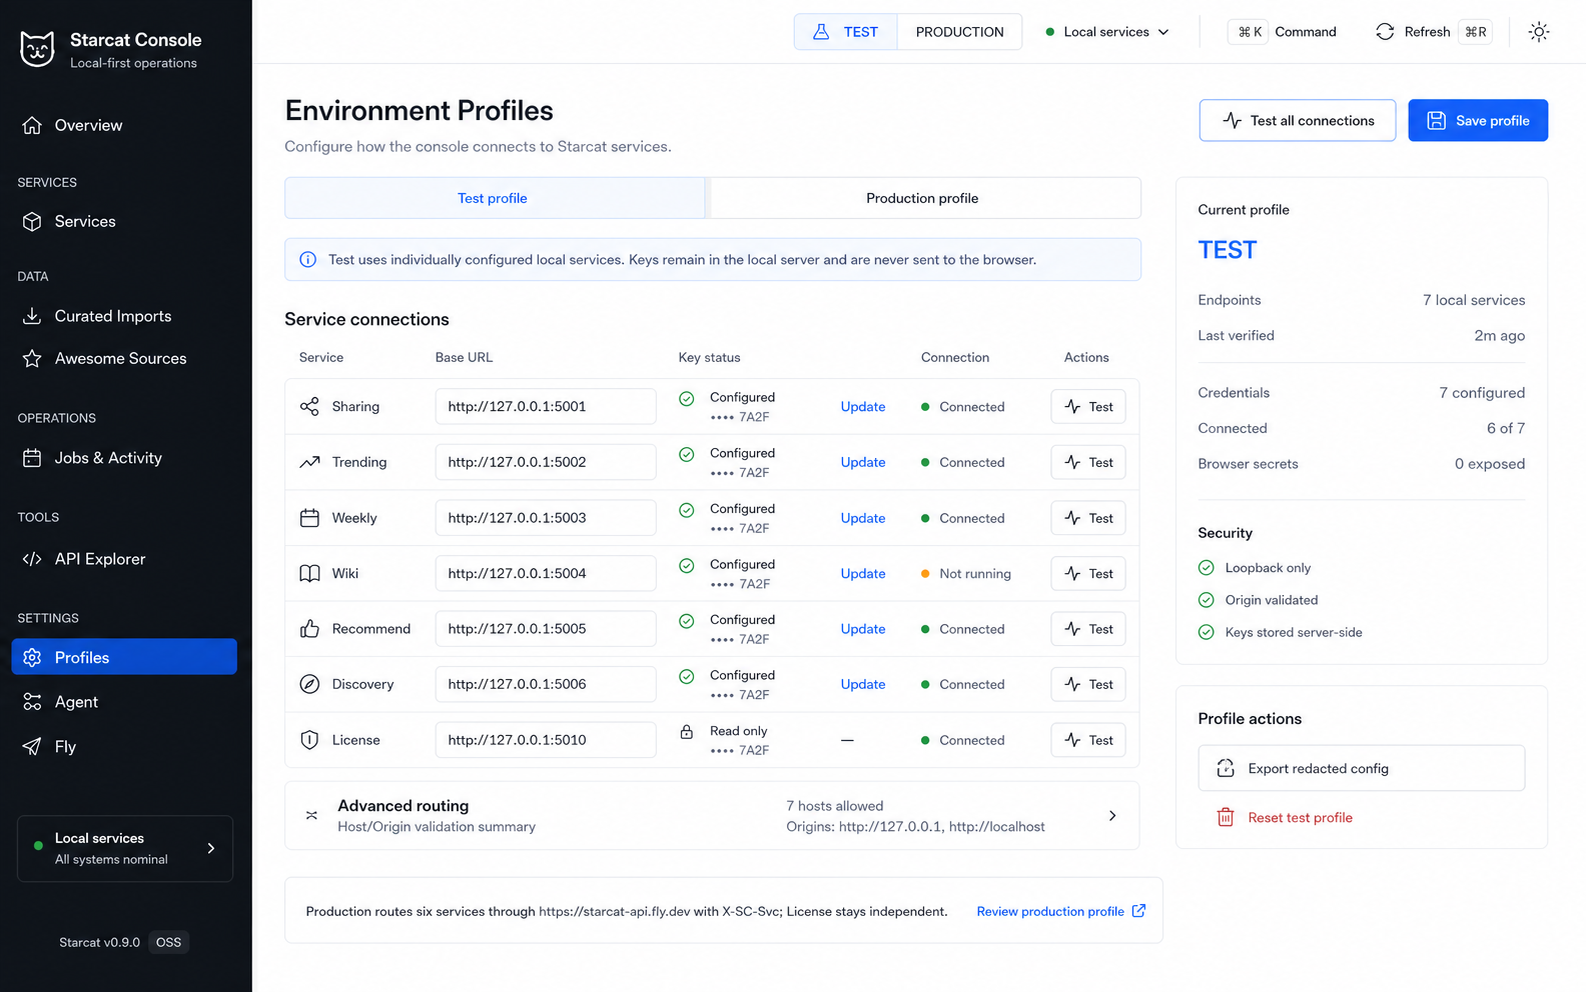
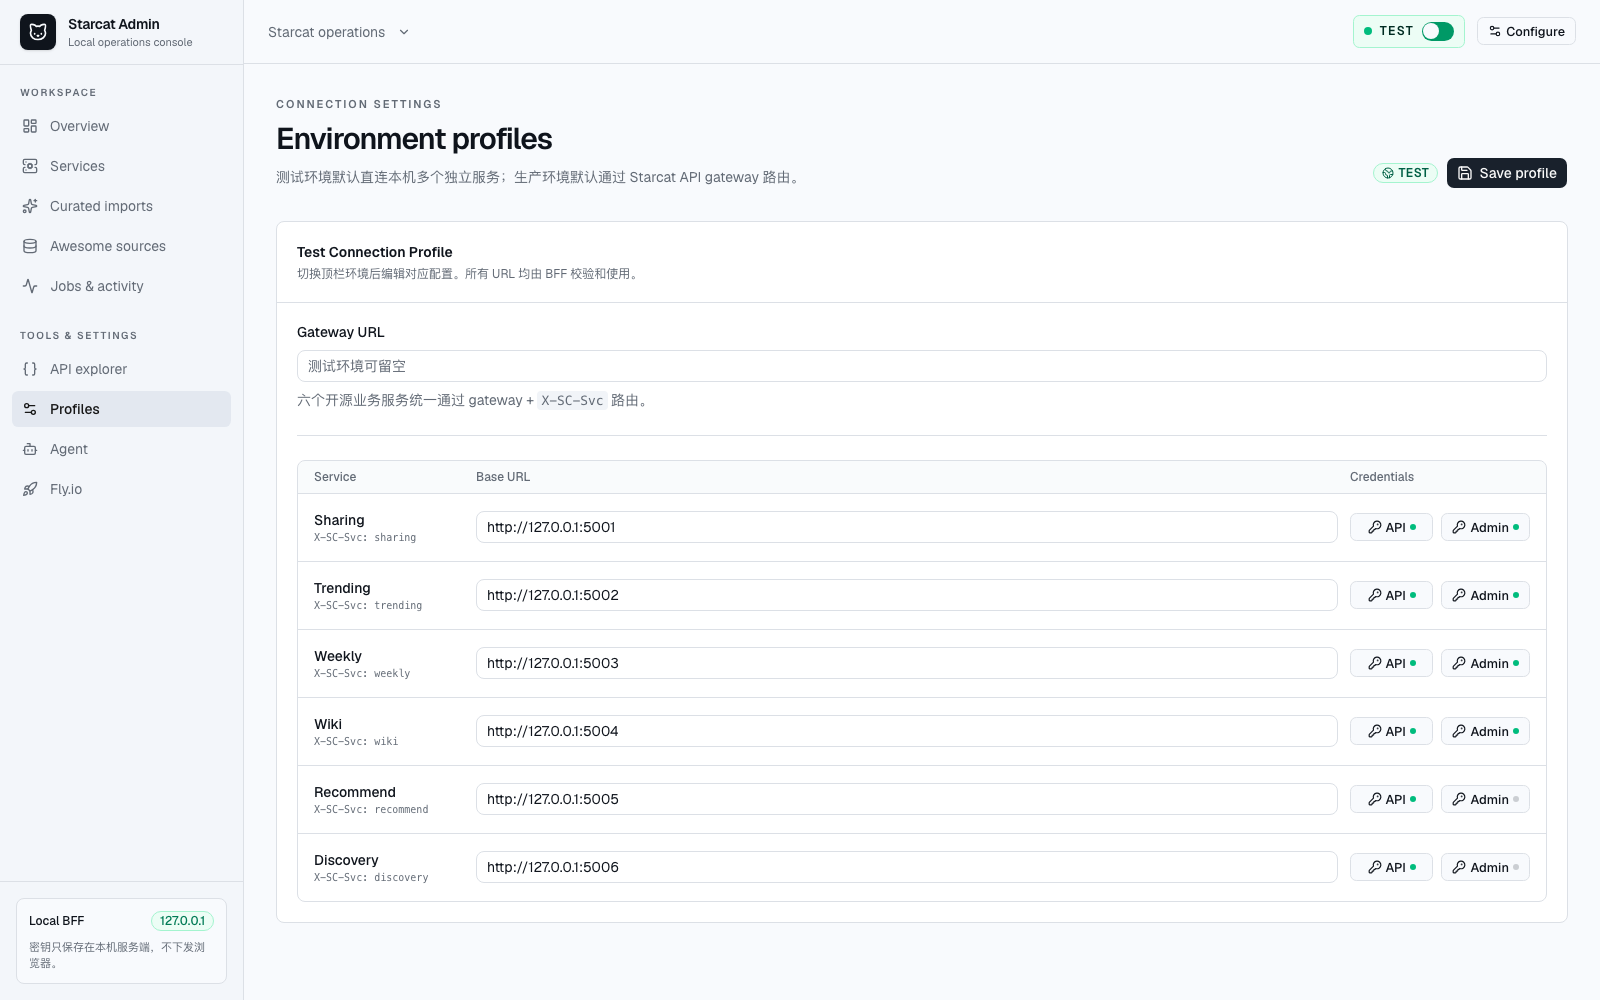
fix(console): 移除闭源 License 服务

diff --git a/server/config-store.ts b/server/config-store.ts
@@ -22,10 +22,6 @@ import {
   type StoredSecrets,
 } from "./types.js";
 
-const businessServiceIds = serviceIds.filter(
-  (service): service is Exclude<ServiceId, "license"> => service !== "license",
-);
-
 const testPorts: Record<ServiceId, number> = {
   sharing: 5001,
   trending: 5002,
@@ -33,16 +29,26 @@ const testPorts: Record<ServiceId, number> = {
   wiki: 5004,
   recommend: 5005,
   discovery: 5006,
-  license: 5010,
 };
 
 const serviceConnectionSchema = z.object({
   baseURL: z.string(),
 });
 
+// 使用显式对象会在读取旧配置时自动丢弃未知服务（例如误加入的闭源服务），
+// 同时保证六个开源业务服务的连接项完整存在。
+const serviceConnectionsSchema = z.object({
+  sharing: serviceConnectionSchema,
+  trending: serviceConnectionSchema,
+  weekly: serviceConnectionSchema,
+  wiki: serviceConnectionSchema,
+  recommend: serviceConnectionSchema,
+  discovery: serviceConnectionSchema,
+});
+
 const environmentProfileSchema = z.object({
   gatewayURL: z.string(),
-  services: z.record(z.enum(serviceIds), serviceConnectionSchema),
+  services: serviceConnectionsSchema,
 });
 
 const consoleConfigSchema = z.object({
@@ -56,7 +62,14 @@ const consoleConfigSchema = z.object({
   }),
   fly: z.object({
     apiBaseURL: z.string(),
-    apps: z.record(z.enum(businessServiceIds), z.string()),
+    apps: z.object({
+      sharing: z.string(),
+      trending: z.string(),
+      weekly: z.string(),
+      wiki: z.string(),
+      recommend: z.string(),
+      discovery: z.string(),
+    }),
   }),
 });
 
@@ -65,10 +78,19 @@ const secretEntrySchema = z.object({
   adminKey: z.string().optional(),
 });
 
+const secretProfileSchema = z.object({
+  sharing: secretEntrySchema,
+  trending: secretEntrySchema,
+  weekly: secretEntrySchema,
+  wiki: secretEntrySchema,
+  recommend: secretEntrySchema,
+  discovery: secretEntrySchema,
+});
+
 const storedSecretsSchema = z.object({
   profiles: z.object({
-    test: z.record(z.enum(serviceIds), secretEntrySchema),
-    production: z.record(z.enum(serviceIds), secretEntrySchema),
+    test: secretProfileSchema,
+    production: secretProfileSchema,
   }),
   agentApiKey: z.string().optional(),
   githubToken: z.string().optional(),
@@ -80,9 +102,6 @@ function makeDefaultProfile(environment: EnvironmentId) {
     serviceIds.map((service) => {
       if (environment === "test") {
         return [service, { baseURL: `http://127.0.0.1:${testPorts[service]}` }];
-      }
-      if (service === "license") {
-        return [service, { baseURL: "https://starcat-license-api.fly.dev" }];
       }
       return [service, { baseURL: "https://starcat-api.fly.dev" }];
     }),

diff --git a/server/config-store.test.ts b/server/config-store.test.ts
@@ -1,5 +1,12 @@
 /** 密钥脱敏和文件权限是本地 BFF 的核心安全回归测试。 */
-import { mkdtemp, readFile, rm, stat } from "node:fs/promises";
+import {
+  mkdir,
+  mkdtemp,
+  readFile,
+  rm,
+  stat,
+  writeFile,
+} from "node:fs/promises";
 import { tmpdir } from "node:os";
 import path from "node:path";
 
@@ -42,6 +49,14 @@ describe("ConfigStore", () => {
     expect(publicConfig.secrets.profiles.production.weekly.adminKey).toEqual(
       state,
     );
+    expect(Object.keys(publicConfig.profiles.production.services)).toEqual([
+      "sharing",
+      "trending",
+      "weekly",
+      "wiki",
+      "recommend",
+      "discovery",
+    ]);
     expect(JSON.stringify(publicConfig)).not.toContain("weekly-secret-value");
     expect(persisted).toContain("weekly-secret-value");
     expect(
@@ -58,6 +73,35 @@ describe("ConfigStore", () => {
     expect((await store.publicConfig()).secrets.githubToken).toEqual({
       configured: false,
     });
+  });
+
+  it("drops unknown service entries left by an older local config", async () => {
+    const directory = await mkdtemp(path.join(tmpdir(), "starcat-admin-test-"));
+    temporaryDirectories.push(directory);
+    const store = new ConfigStore(directory);
+    const config = await store.loadConfig();
+    const legacy = structuredClone(config) as typeof config & {
+      profiles: typeof config.profiles & {
+        test: typeof config.profiles.test & {
+          services: typeof config.profiles.test.services & {
+            closed_service: { baseURL: string };
+          };
+        };
+      };
+    };
+    legacy.profiles.test.services.closed_service = {
+      baseURL: "https://closed.example.invalid",
+    };
+    await mkdir(directory, { recursive: true });
+    await writeFile(
+      path.join(directory, "config.json"),
+      JSON.stringify(legacy),
+      "utf8",
+    );
+
+    expect(await store.loadConfig()).not.toHaveProperty(
+      "profiles.test.services.closed_service",
+    );
   });
 });
 

diff --git a/tests/e2e/console.spec.ts b/tests/e2e/console.spec.ts
@@ -7,14 +7,13 @@ const services = [
   "wiki",
   "recommend",
   "discovery",
-  "license",
 ].map((id, index) => ({
   id,
   label: id[0].toUpperCase() + id.slice(1),
   description: `${id} test fixture`,
-  readOnly: id === "license",
+  readOnly: false,
   online: index !== 3,
-  authenticated: index < 5,
+  authenticated: true,
   latencyMs: 18 + index,
   stats:
     index < 4
@@ -29,7 +28,7 @@ const services = [
       : [],
   actions: [],
   credentials: {
-    apiKey: { configured: index < 5 },
+    apiKey: { configured: true },
     adminKey: { configured: index < 3 },
   },
 }));
@@ -51,7 +50,7 @@ test("switches environment and navigates the console shell", async ({
   await expect(
     page.getByRole("heading", { name: "System overview" }),
   ).toBeVisible();
-  await expect(page.getByText("6 / 7")).toBeVisible();
+  await expect(page.getByText("5 / 6")).toBeVisible();
   await page.getByRole("switch", { name: "Switch environment" }).click();
   await expect(
     page.getByText("Production environment", { exact: false }),

diff --git a/server/upstream.ts b/server/upstream.ts
@@ -29,7 +29,7 @@ export async function requestUpstream(
   const profile = config.profiles[request.environment];
   const serviceConfig = profile.services[request.service];
   const baseURL =
-    request.environment === "production" && request.service !== "license"
+    request.environment === "production"
       ? profile.gatewayURL || serviceConfig.baseURL
       : serviceConfig.baseURL;
 
@@ -41,7 +41,7 @@ export async function requestUpstream(
   const headers = new Headers({
     Accept: "application/json",
   });
-  if (request.environment === "production" && request.service !== "license") {
+  if (request.environment === "production") {
     headers.set("X-SC-Svc", request.service);
   }
   if (request.auth) {

diff --git a/server/service-registry.test.ts b/server/service-registry.test.ts
@@ -3,6 +3,17 @@ import { describe, expect, it } from "vitest";
 import { pickValue, serviceRegistry } from "./service-registry.js";
 
 describe("service registry", () => {
+  it("contains only the six open-source business services", () => {
+    expect(Object.keys(serviceRegistry)).toEqual([
+      "sharing",
+      "trending",
+      "weekly",
+      "wiki",
+      "recommend",
+      "discovery",
+    ]);
+  });
+
   it("resolves nested and selected statistic values", () => {
     const body = {
       data: { modes: [{ mode: "popular", total: 42 }], repos: { total: 9 } },

diff --git a/src/pages/settings.tsx b/src/pages/settings.tsx
@@ -115,8 +115,7 @@ export function ProfilesPage() {
                 }
               />
               <FieldDescription>
-                生产业务服务通过 gateway + <code>X-SC-Svc</code> 路由；License
-                使用独立地址。
+                六个开源业务服务统一通过 gateway + <code>X-SC-Svc</code> 路由。
               </FieldDescription>
             </Field>
             <Separator className="my-6" />

diff --git a/src/types.ts b/src/types.ts
@@ -8,7 +8,6 @@ export const serviceIds = [
   "wiki",
   "recommend",
   "discovery",
-  "license",
 ] as const;
 
 export type ServiceId = (typeof serviceIds)[number];
@@ -29,7 +28,7 @@ export interface PublicConfig {
   agent: { baseURL: string; model: string };
   fly: {
     apiBaseURL: string;
-    apps: Record<Exclude<ServiceId, "license">, string>;
+    apps: Record<ServiceId, string>;
   };
   secrets: {
     profiles: Record<

diff --git a/server/types.ts b/server/types.ts
@@ -12,7 +12,6 @@ export const serviceIds = [
   "wiki",
   "recommend",
   "discovery",
-  "license",
 ] as const;
 
 export type ServiceId = (typeof serviceIds)[number];
@@ -35,7 +34,7 @@ export interface AgentConfig {
 
 export interface FlyConfig {
   apiBaseURL: string;
-  apps: Record<Exclude<ServiceId, "license">, string>;
+  apps: Record<ServiceId, string>;
 }
 
 export interface ConsoleConfig {

diff --git a/server/service-registry.ts b/server/service-registry.ts
@@ -302,14 +302,6 @@ export const serviceRegistry: Record<ServiceId, ServiceDescriptor> = {
       },
     ],
   },
-  license: {
-    id: "license",
-    label: "License",
-    description: "Direct 分发与授权链路",
-    readOnly: true,
-    stats: [],
-    actions: [],
-  },
 };
 
 export function pickValue(input: unknown, expression?: string): unknown {

diff --git a/docs/design/README.md b/docs/design/README.md
@@ -1,13 +1,13 @@
 # Starcat Admin Console 视觉概念
 
-> 状态：首轮概念稿，等待 dong4j 确认；确认前不作为已锁定设计，也不进入 React 实现。
+> 状态：视觉方向已确认；总览和环境配置图由当前本地实现直接截取。
 
 ## 概念稿
 
-- [`overview.png`](./overview.png)：总览、服务健康、快捷操作和最近活动。
+- [`overview.png`](./overview.png)：六个开源业务服务的总览和健康状态。
 - [`curated-imports.png`](./curated-imports.png)：Agent 线索分析、联网核验与证据审阅。
 - [`awesome-sources-production.png`](./awesome-sources-production.png)：生产环境下的 Awesome 来源列表与编辑抽屉。
-- [`environment-profiles.png`](./environment-profiles.png)：本地多服务 URL、脱敏 Key 状态和生产路由提示。
+- [`environment-profiles.png`](./environment-profiles.png)：六个本地服务 URL、脱敏 Key 状态和生产路由提示。
 
 图中的数值、日期、版本号和仓库示例只用于说明布局，不代表真实数据或版本承诺。实现时由真实
 API 或明确标记的开发 fixture 提供。

diff --git a/AGENTS.md b/AGENTS.md
@@ -11,7 +11,8 @@
 
 ## 产品边界
 
-- 测试环境连接各本地 API；生产环境连接聚合网关，license 保持独立只读连接。
+- 控制台只管理六个开源业务 API；闭源服务不得出现在类型、配置、路由、页面或文档中。
+- 测试环境连接各本地 API；生产环境连接聚合网关。
 - 生产环境允许写入，不增加全局写入开关；破坏性或批量操作仍需逐次展示目标与影响。
 - Awesome 只管理来源，不管理内置 README 条目。
 - Agent 导入必须经过文本分析、受限联网核验、人工审阅和显式发布，禁止自动发布。
